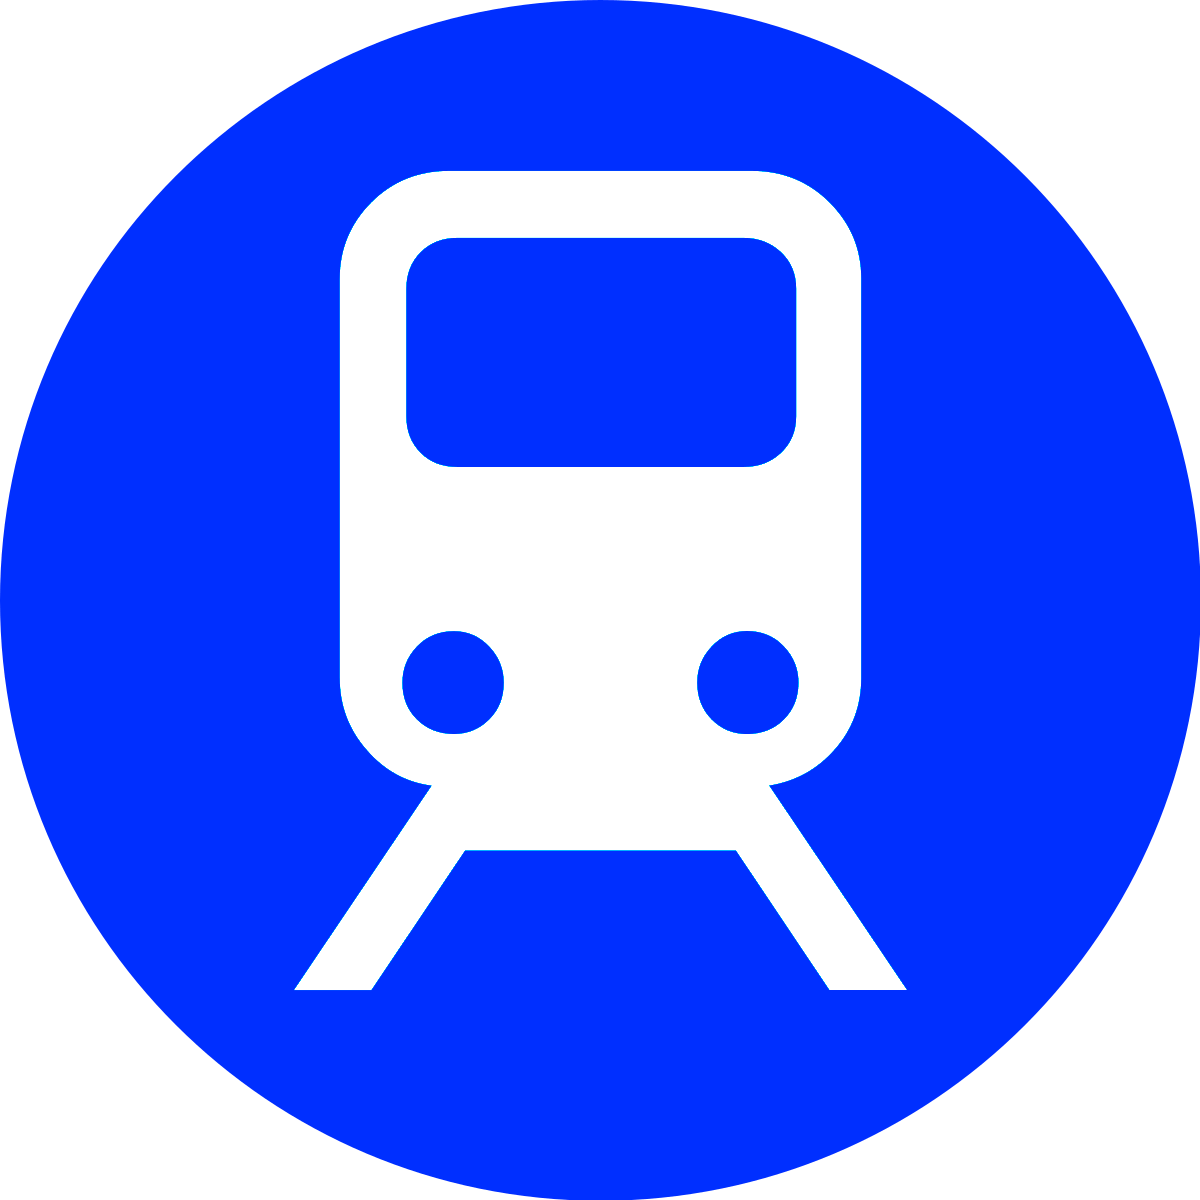
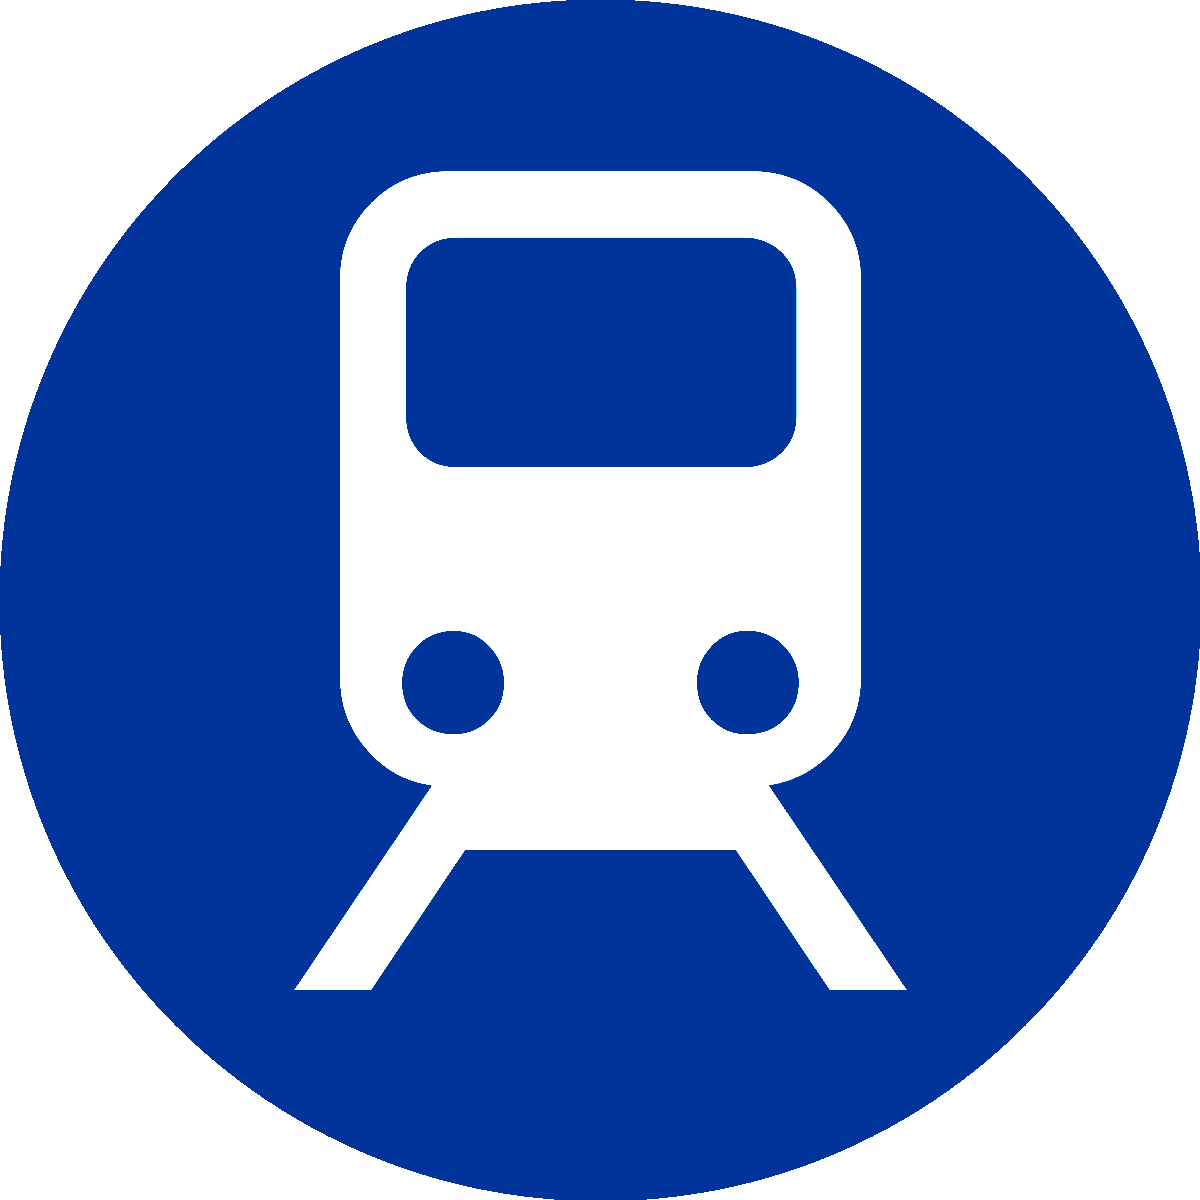
Adjust the color

diff --git a/index.css b/index.css
@@ -59,7 +59,7 @@ body {
 #info {
     width: 100%;
     height: 40px;
-    background-color: rgb(0, 8, 125);
+    background-color: rgb(0, 42, 120);
     font-size: 1.6rem;
 
     display: flex;
